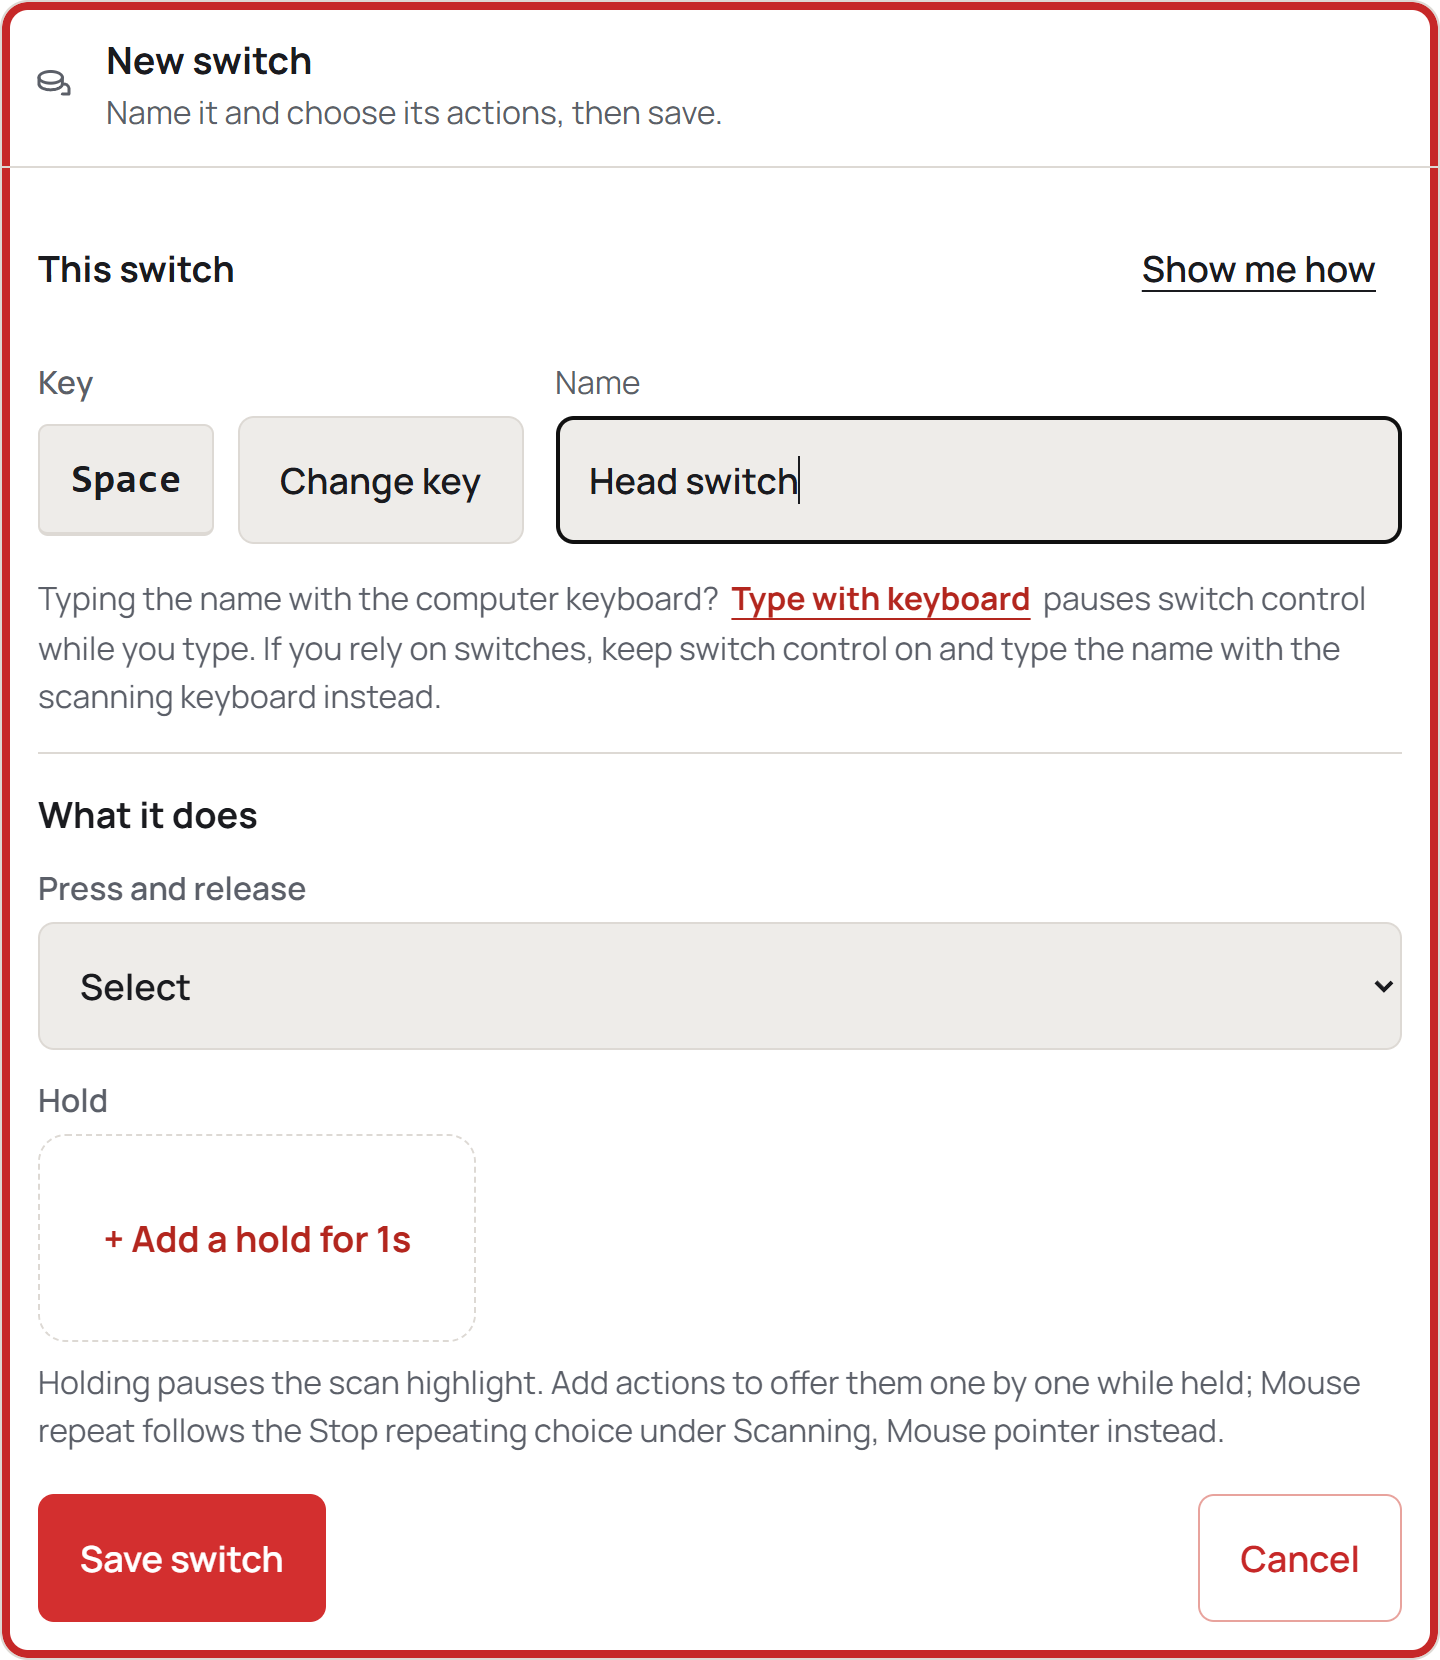
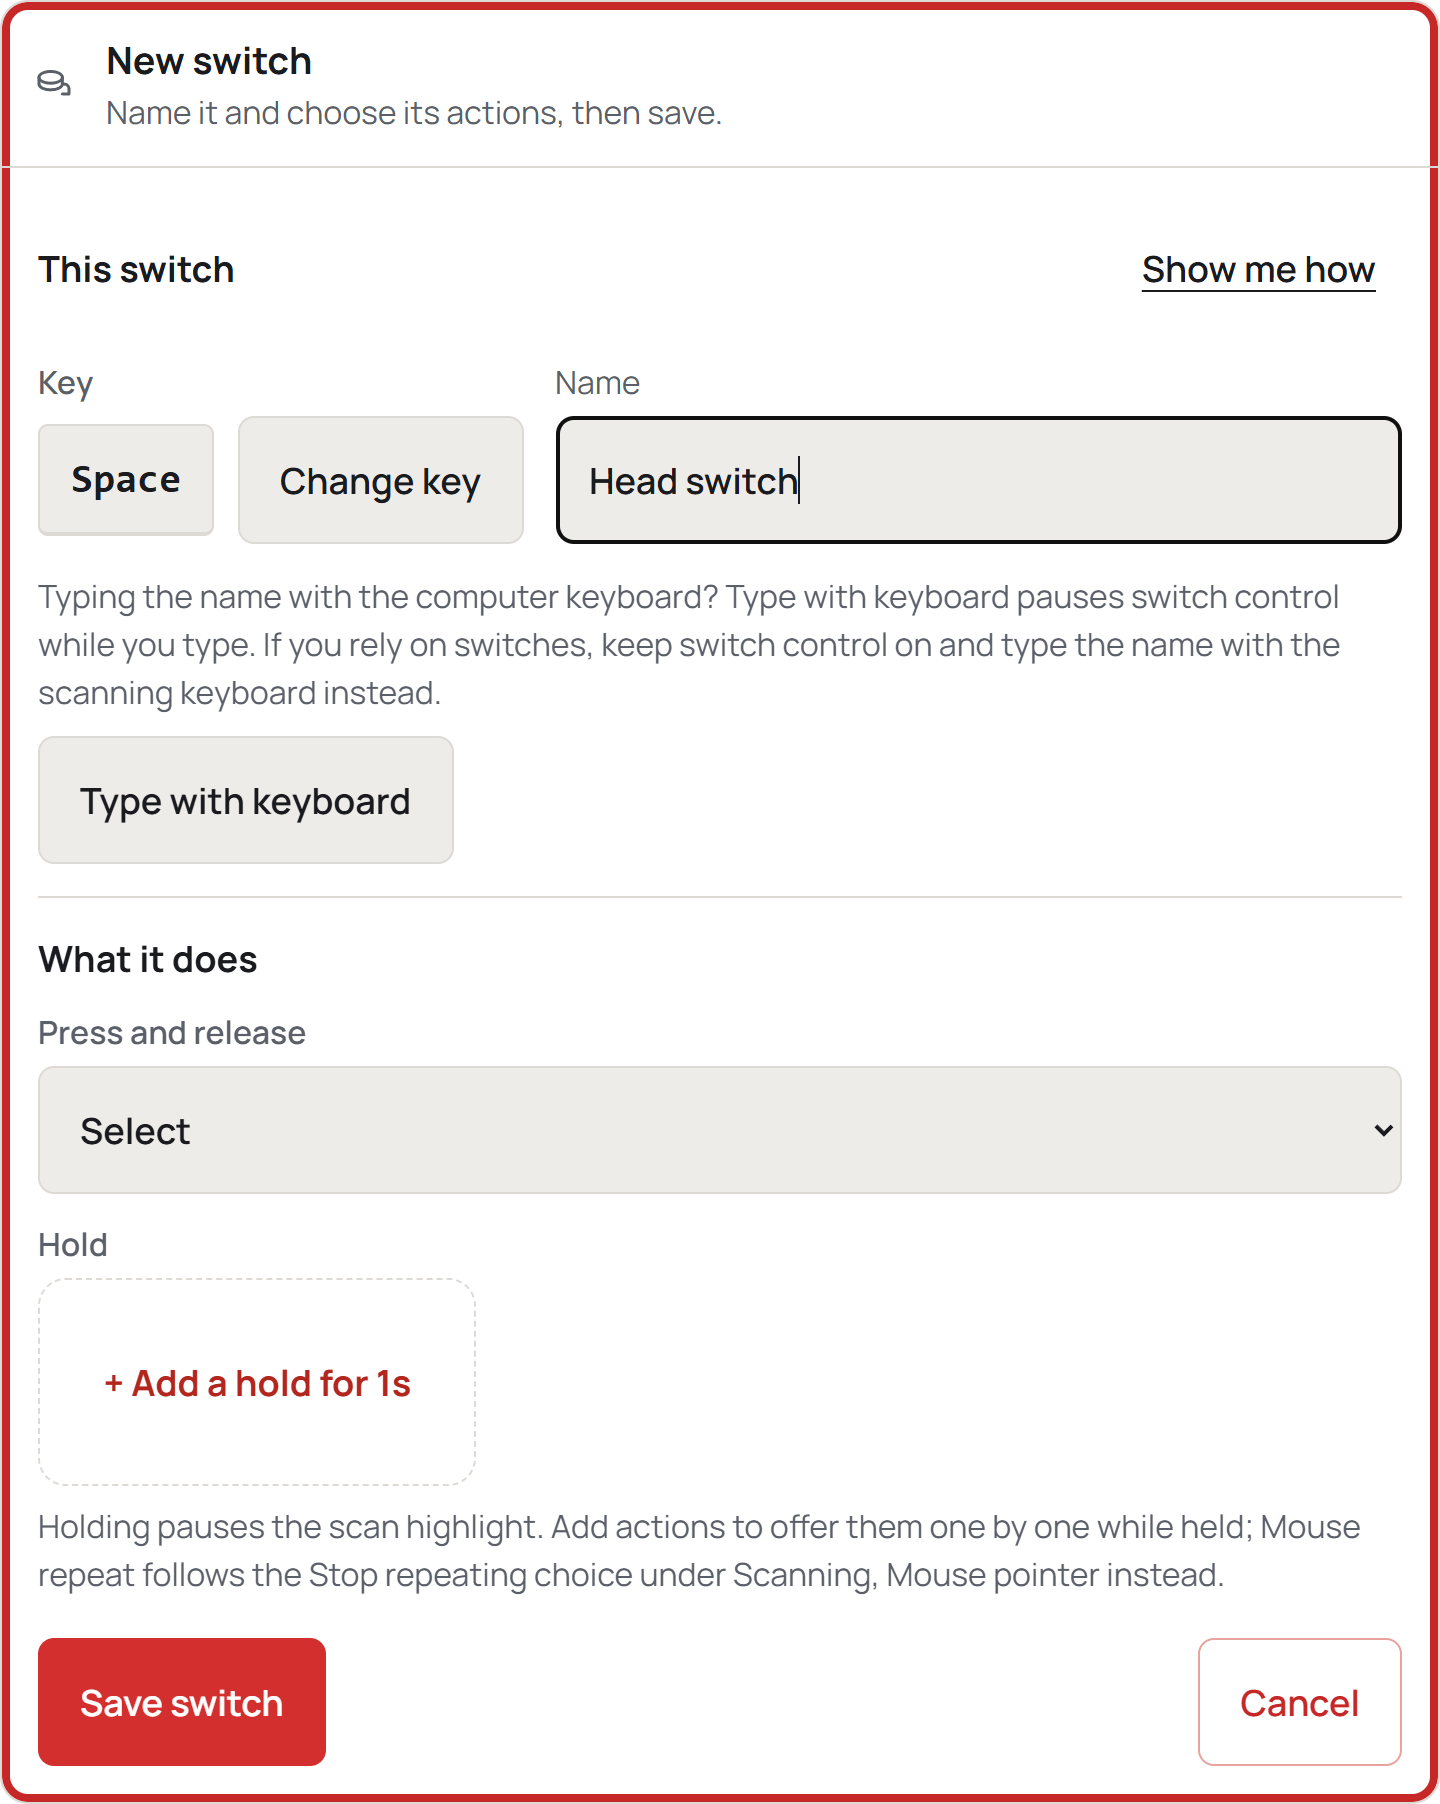
Keep focus and large targets in the switch editor (#1522)
Focus the hold's Action list after adding a hold and after a move that
disables the pressed button. Type with keyboard is a full-size button
again, the chosen hold tile uses Highlight in forced colours, and hold
times are no longer uppercase. Docs wording follows the editor.

diff --git a/src/settings/SwitchesSection.tsx b/src/settings/SwitchesSection.tsx
@@ -173,6 +173,14 @@ function SwitchEditor({
     const tiles = tilesRef.current?.querySelectorAll<HTMLButtonElement>("button");
     tiles?.[Math.min(index, tiles.length - 1)]?.focus();
   });
+  const panelRef = useRef<HTMLDivElement>(null);
+  // The panel's Action list takes focus when a new hold opens, and when a
+  // move disables the button that was pressed, so focus is never dropped.
+  const focusAction = (always: boolean) => requestAnimationFrame(() => {
+    const active = document.activeElement as HTMLButtonElement | null;
+    if (always || !active || active.disabled || !panelRef.current?.contains(active))
+      panelRef.current?.querySelector("select")?.focus();
+  });
   const choose = (index: number | null) => setChosen(index);
   const selected = chosen !== null && chosen < holds.length ? chosen : null;
   return (
@@ -238,14 +246,16 @@ function SwitchEditor({
               "This key is unavailable on this computer. Learn another key."}
           </FeedbackMessage>
         )}
-        <p className="setting-note switch-typing">
-          Typing the name with the computer keyboard?{" "}
-          <Button type="button" className="text-button" disabled={entryPending}
+        <div className="switch-typing">
+          <p className="setting-note">
+            Typing the name with the computer keyboard? Type with keyboard pauses switch control while you type. If you rely on switches, keep switch control on and type the name with the scanning keyboard instead.
+          </p>
+          {/* A full-size button: it pauses switch control, so it must be easy to reach. */}
+          <Button type="button" className="secondary" disabled={entryPending}
             aria-pressed={keyboardEntry} onClick={() => onKeyboardEntry(!keyboardEntry)}>
             {keyboardEntry ? "Resume switch control" : "Type with keyboard"}
-          </Button>{" "}
-          pauses switch control while you type. If you rely on switches, keep switch control on and type the name with the scanning keyboard instead.
-        </p>
+          </Button>
+        </div>
         {keyboardEntry && <p role="status">Keyboard typing is on. Assigned keys type normally; switch scanning is paused.</p>}
       </section>
       <section className="switch-editor-section" aria-labelledby={actionsId}>
@@ -285,6 +295,7 @@ function SwitchEditor({
                   onClick={() => {
                     onChange({ ...binding, holdActions: [...holds, "next"] });
                     choose(holds.length);
+                    focusAction(true);
                   }}
                 >
                   + Add a hold for {holdAt(holds.length)}
@@ -293,7 +304,7 @@ function SwitchEditor({
             )}
           </ul>
           {selected !== null && (
-            <div className="hold-panel" role="group" aria-label={`Hold action ${selected + 1}: hold ${holdAt(selected)}`}>
+            <div className="hold-panel" ref={panelRef} role="group" aria-label={`Hold action ${selected + 1}: hold ${holdAt(selected)}`}>
               <div className="hold-panel-heading">
                 <strong>Hold {holdAt(selected)}: {holdName(selected)}</strong>
                 <Button type="button" className="secondary" onClick={() => { choose(null); focusTile(selected); }}>Close</Button>
@@ -312,12 +323,12 @@ function SwitchEditor({
               <div className="hold-panel-actions">
                 <Button type="button" className="secondary" disabled={selected === 0}
                   aria-label={`Move hold action ${selected + 1} earlier`}
-                  onClick={() => { move(selected, -1); choose(selected - 1); }}>
+                  onClick={() => { move(selected, -1); choose(selected - 1); focusAction(false); }}>
                   Move earlier
                 </Button>
                 <Button type="button" className="secondary" disabled={selected === holds.length - 1}
                   aria-label={`Move hold action ${selected + 1} later`}
-                  onClick={() => { move(selected, 1); choose(selected + 1); }}>
+                  onClick={() => { move(selected, 1); choose(selected + 1); focusAction(false); }}>
                   Move later
                 </Button>
                 <Button type="button" className="secondary danger"

diff --git a/src/ui/app.css b/src/ui/app.css
@@ -671,15 +671,15 @@ fieldset:disabled :is(.color-options, .scanner-colours) label:not(:has(input:che
 /* Key and name side by side, the name taking the room. */
 .switch-identity { display: grid; grid-template-columns: auto minmax(0, 1fr); align-items: end; gap: 16px; }
 .switch-identity .key-badge { min-width: 88px; min-height: 56px; justify-content: center; color: var(--text); font-size: 20px; }
-.switch-typing { margin: 0; }
-.switch-typing .btn.text-button { display: inline; min-height: 0; padding: 0 2px; color: var(--brand-label); font: inherit; font-weight: 700; }
+.switch-typing { display: grid; justify-items: start; gap: 10px; }
+.switch-typing .setting-note { margin: 0; }
 /* Hold actions as tiles, in the order holding reaches them; the list wraps. */
 .hold-tiles { display: grid; grid-template-columns: repeat(auto-fill, minmax(180px, 1fr)); gap: 12px; margin: 0; padding: 0; list-style: none; }
 .hold-tiles li { display: grid; }
 .btn.hold-tile { display: grid; justify-content: stretch; justify-items: start; align-content: start; gap: 6px; min-height: 104px; border-color: var(--border); border-radius: var(--radius-card); padding: 16px; background: var(--surface); text-align: left; }
 .btn.hold-tile:hover { background: var(--surface-hover); }
 .btn.hold-tile[aria-pressed="true"] { border: 3px solid var(--text); padding: 14px; background: var(--surface-muted); }
-.hold-tile-when { color: var(--muted); font-size: 14px; font-weight: 700; letter-spacing: 0.04em; text-transform: uppercase; }
+.hold-tile-when { color: var(--muted); font-size: 15px; font-weight: 700; }
 .hold-tile-action { font-size: 20px; font-weight: 700; overflow-wrap: anywhere; }
 .btn.hold-tile.hold-tile-add { place-content: center; justify-content: center; justify-items: center; border-style: dashed; color: var(--brand-label); background: transparent; text-align: center; font-weight: 700; }
 .hold-panel { display: grid; gap: 14px; border: 1px solid var(--border-strong); border-radius: var(--radius-card); padding: 16px; background: var(--surface); box-shadow: 0 8px 24px rgb(0 0 0 / 10%); }
@@ -907,9 +907,9 @@ fieldset:disabled :is(.color-options, .scanner-colours) label:not(:has(input:che
    chosen state with system colours, and let swatches and the highlight
    sample keep their real colours, since the colour is the choice being made. */
 @media (forced-colors: active) {
-  .segmented .btn[aria-pressed="true"], .setup-choices .btn[aria-pressed="true"], .color-options label:has(input:checked), .scanner-colours label:has(input:checked) { forced-color-adjust: none; color: HighlightText; background: Highlight; border-color: ButtonText; outline: none; }
+  .segmented .btn[aria-pressed="true"], .setup-choices .btn[aria-pressed="true"], .btn.hold-tile[aria-pressed="true"], .color-options label:has(input:checked), .scanner-colours label:has(input:checked) { forced-color-adjust: none; color: HighlightText; background: Highlight; border-color: ButtonText; outline: none; }
   .segmented .btn[aria-pressed="true"]::after, .setup-choices .btn[aria-pressed="true"]::after { border-color: currentColor; }
-  .setup-choices .btn[aria-pressed="true"] small { color: inherit; }
+  .setup-choices .btn[aria-pressed="true"] small, .btn.hold-tile[aria-pressed="true"] .hold-tile-when { color: inherit; }
   .btn.tile-nav[data-active="true"], .toggle-row:has(input:checked), .switch-row[data-open], .tile-find:focus-within, .tile-find.tile-chosen, [data-found] { outline: 3px solid Highlight; outline-offset: -3px; }
   .segmented .btn:focus-visible, .setup-choices .btn:focus-visible, .color-options label:has(input:focus-visible), .scanner-colours label:has(input:focus-visible) { outline: 3px solid CanvasText; outline-offset: 3px; }
   /* Focus must still read as focus on the current page's own button. */

diff --git a/src/Switches.test.tsx b/src/Switches.test.tsx
@@ -227,6 +227,18 @@ it("edits hold actions from a panel opened by choosing their tile", async () => 
   await waitFor(() => expect(current.settings.bindings[0].holdActions).toEqual(["next", "stop", "next"]));
   expect(screen.getByRole("group", { name: "Hold action 3: hold 3s" })).toBeTruthy();
   expect(screen.getByLabelText("Hold action 3 for Head switch")).toHaveValue("next");
+  await waitFor(() => expect(screen.getByLabelText("Hold action 3 for Head switch")).toHaveFocus());
+
+  // A move that reaches the end disables its button, so focus goes to the action.
+  fireEvent.click(screen.getByRole("button", { name: "Move hold action 3 earlier" }));
+  await waitFor(() => expect(current.settings.bindings[0].holdActions).toEqual(["next", "next", "stop"]));
+  screen.getByRole("button", { name: "Move hold action 2 earlier" }).focus();
+  fireEvent.click(screen.getByRole("button", { name: "Move hold action 2 earlier" }));
+  await waitFor(() => expect(screen.getByLabelText("Hold action 1 for Head switch")).toHaveFocus());
+  expect(screen.getByRole("button", { name: "Move hold action 1 earlier" })).toBeDisabled();
+  fireEvent.click(screen.getByRole("button", { name: "Move hold action 1 later" }));
+  fireEvent.click(screen.getByRole("button", { name: "Move hold action 2 later" }));
+  await waitFor(() => expect(current.settings.bindings[0].holdActions).toEqual(["next", "stop", "next"]));
 
   // Removing it closes the panel and leaves focus on the tiles.
   fireEvent.click(screen.getByRole("button", { name: "Remove hold action 3" }));

diff --git a/site/src/content/docs/get-started/add-a-switch.md b/site/src/content/docs/get-started/add-a-switch.md
@@ -26,7 +26,7 @@ Switchify PC sees a switch as a key press or a gamepad button press. Anything th
 
    ![A new switch after learning the Space key, named Head switch, with Press and release set to Select and Save switch and Cancel buttons.](../../../assets/screenshots/add-switch-learned.png)
 
-While the learning dialog is open it holds keyboard focus, so a press cannot scroll Settings or activate a button. Press Escape to cancel. If you need to type the name with the keyboard, choose **Type with keyboard** next to the name, which pauses switch control while you do. **Show me how** at the top of the editor shows how to learn a switch and how to select with one.
+While the learning dialog is open it holds keyboard focus, so a press cannot scroll Settings or activate a button. Press Escape to cancel. If you need to type the name with the keyboard, choose **Type with keyboard** under the name, which pauses switch control while you do. **Show me how** at the top of the editor shows how to learn a switch and how to select with one.
 
 Each key belongs to one switch, but several switches can run the same action.
 
@@ -58,7 +58,7 @@ A switch can also have an ordered list of **hold actions**. Keep the switch down
 
 To open a panel with a hold, add a hold and pick the panel under **Open a panel**, **Open a menu** or **My panels**. Create and save custom panels on the **Panels** page first. Opening a menu or custom panel starts its scan, including when scanning was waiting or paused. Back returns to Home. If a custom panel is deleted, replace its unavailable assignment in the switch editor.
 
-In the switch editor, hold actions are tiles under **Hold**, in the order holding reaches them. Each tile shows how long to hold and the action, such as *Hold 1s, Open keyboard*. The last tile, **Add a hold**, adds another, ready to change.
+In the switch editor, hold actions are tiles under **Hold**, in the order holding reaches them. Each tile shows how long to hold and the action, such as *Hold 1s, Open keyboard*. The last tile, **Add a hold for…**, adds another and opens it ready to change.
 
 Choose a tile to open its panel. There you can pick a different **Action**, **Move earlier** or **Move later** to change the order, or **Remove** it. **Close** closes the panel.
 
